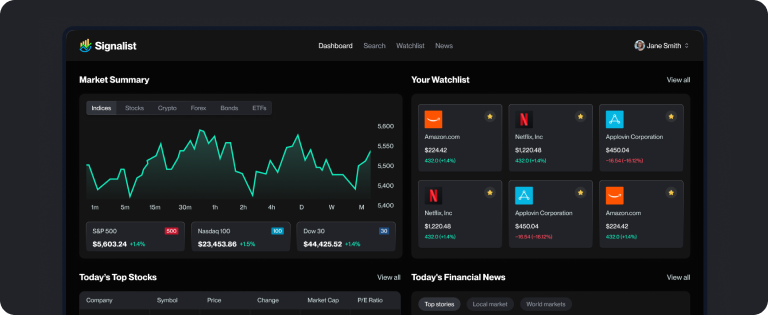
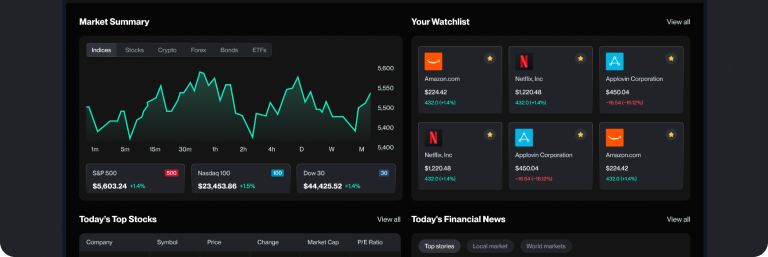
Added

diff --git a/components/Header.tsx b/components/Header.tsx
@@ -11,7 +11,7 @@ const Header = async ({ user }: { user: User }) => {
         <header className="sticky top-0 header">
             <div className="container header-wrapper">
                 <Link href="/">
-                    <Image src="/assets/icons/logo1.png" alt="Sacktrading logo" width={140} height={32} className="h-8 w-auto cursor-pointer" /><span>calstock</span>
+                    <Image src="/app/favicon.ico" alt="Sacktrading logo" width={140} height={32} className="h-8 w-auto cursor-pointer" />
                 </Link>
                 <nav className="hidden sm:block">
                     <NavItems initialStocks={initialStocks} />

diff --git a/app/(auth)/layout.tsx b/app/(auth)/layout.tsx
@@ -13,7 +13,7 @@ const Layout = async ({ children }: { children : React.ReactNode }) => {
         <main className="auth-layout">
             <section className="auth-left-section scrollbar-hide-default">
                 <Link href="/" className="auth-logo">
-                    <Image src="/assets/icons/logo1.png" alt="Signalist logo" width={140} height={32} className='h-8 w-auto' />
+                    <Image src="/favicon.ico" alt="Signalist logo" width={140} height={32} className='h-8 w-auto' />
                 </Link>
 
                 <div className="pb-6 lg:pb-8 flex-1">{children}</div>

diff --git a/app/layout.tsx b/app/layout.tsx
@@ -14,7 +14,7 @@ const geistMono = Geist_Mono({
 });
 
 export const metadata: Metadata = {
-  title: "Signalist",
+  title: "Calstock",
   description: "Track real-time stock prices, get personalized alerts and explore detailed company insights.",
 };
 
